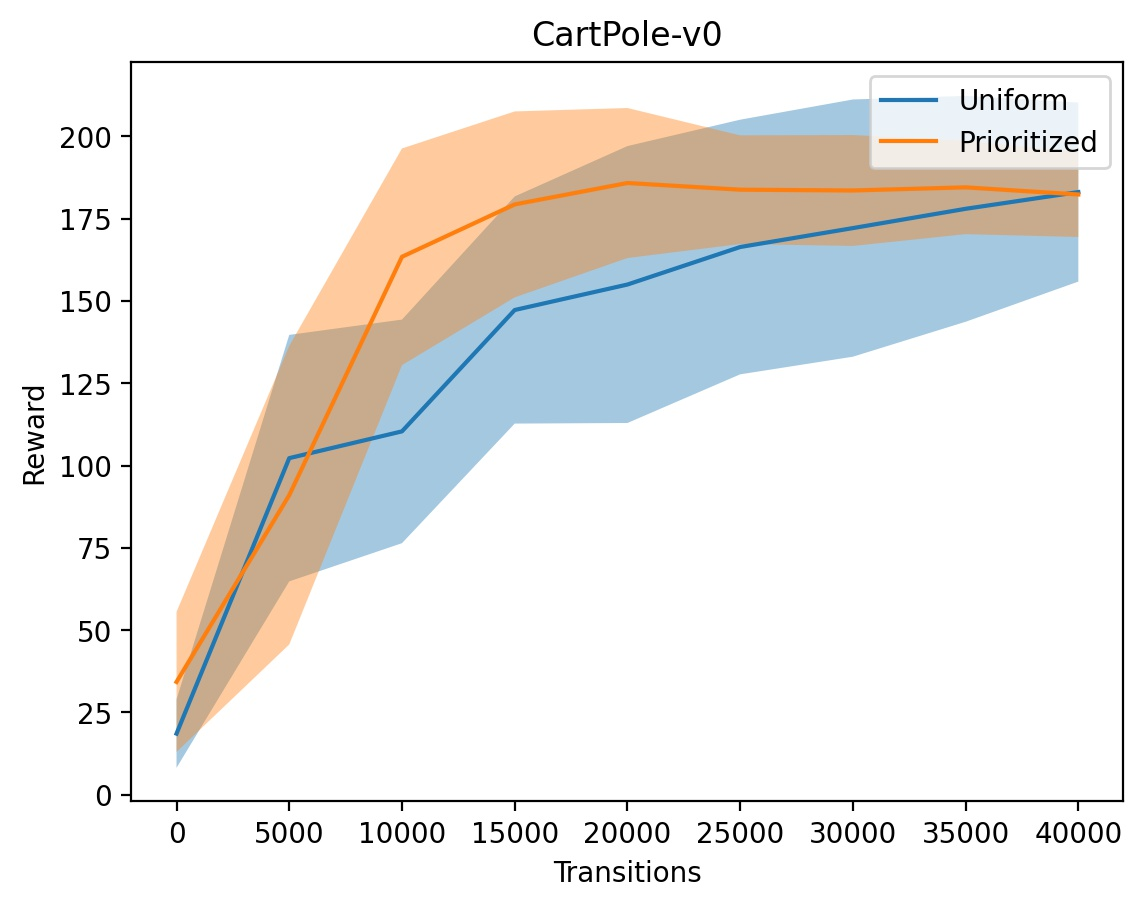
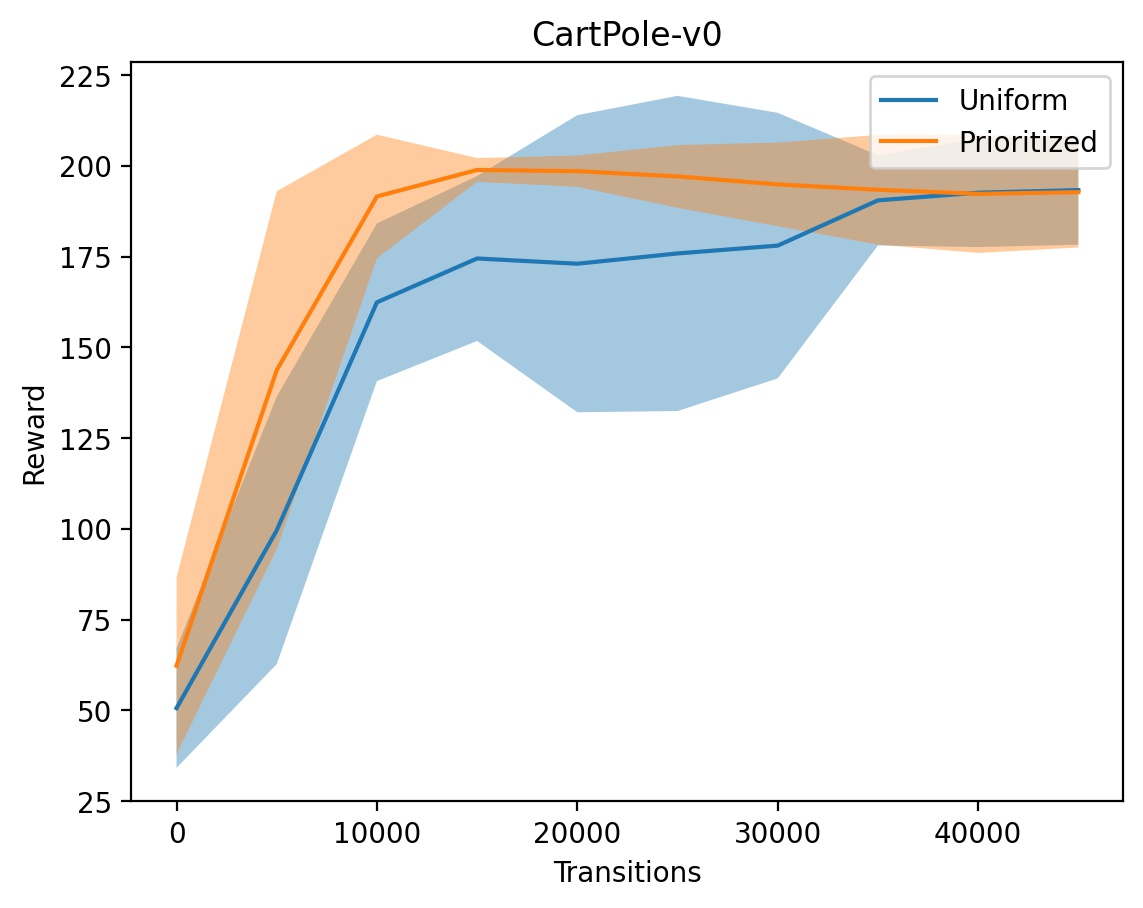
new plot for cartpole

diff --git a/train.py b/train.py
@@ -78,7 +78,7 @@ def evaluate_policy(env_name, agent, episodes=5, seed=0):
     return np.mean(returns), np.std(returns)
 
 
-def train(env_name, model, buffer, timesteps=200_000, start_train=1000, batch_size=128,
+def train(env_name, model, buffer, timesteps=200_000, batch_size=128,
           eps_max=0.1, eps_min=0.0, test_every=5000, seed=0):
     print(f"Training on: {env_name}, Device: {device()}, Seed: {seed}")
 
@@ -110,7 +110,7 @@ def train(env_name, model, buffer, timesteps=200_000, start_train=1000, batch_si
 
         state = next_state
 
-        if step > start_train:
+        if step > batch_size:
             if isinstance(buffer, ReplayBuffer):
                 batch = buffer.sample(batch_size)
                 loss, td_error = model.update(batch)
@@ -186,10 +186,10 @@ if __name__ == "__main__":
             "train": {
                 "env_name": "CartPole-v0",
                 "timesteps": 50_000,
-                "start_train": 5000,
                 "batch_size": 64,
                 "test_every": 5000,
-                "eps_max": 0.2
+                "eps_max": 0.5,
+                "eps_min": 0.05
             }
         }
     elif args.env_name == "LunarLander-v2":
@@ -219,7 +219,7 @@ if __name__ == "__main__":
         raise RuntimeError(f"Unknown env_name argument: {args.env_name}")
 
     priority_config = deepcopy(config)
-    priority_config["buffer"].update({"alpha": 0.8, "beta": 0.3})
+    priority_config["buffer"].update({"alpha": 0.7, "beta": 0.4})
 
     mean_reward, std_reward = run_experiment(config, n_seeds=args.seeds)
     mean_priority_reward, std_priority_reward = run_experiment(priority_config, use_priority=True, n_seeds=args.seeds)

diff --git a/README.md b/README.md
@@ -10,9 +10,9 @@ Simple and straightforward implementation with comments.
 
 ### DQN with PER
 
-10 seeds, same hyperparameters, not tuned
+10 seeds, same not tuned hyperparameters, linear beta schedule -> 1.0
 
-**WARN**: all plots have to be recalculated because I found a bug in beta schedule. In progress.
+**WARN**: all plots have to be recalculated because I found a bug in beta schedule. In progress. CartPole-v0 is updated. 
 
 <p float="left">
   <img src="plots/cartpole.jpg" width="50%"/>
